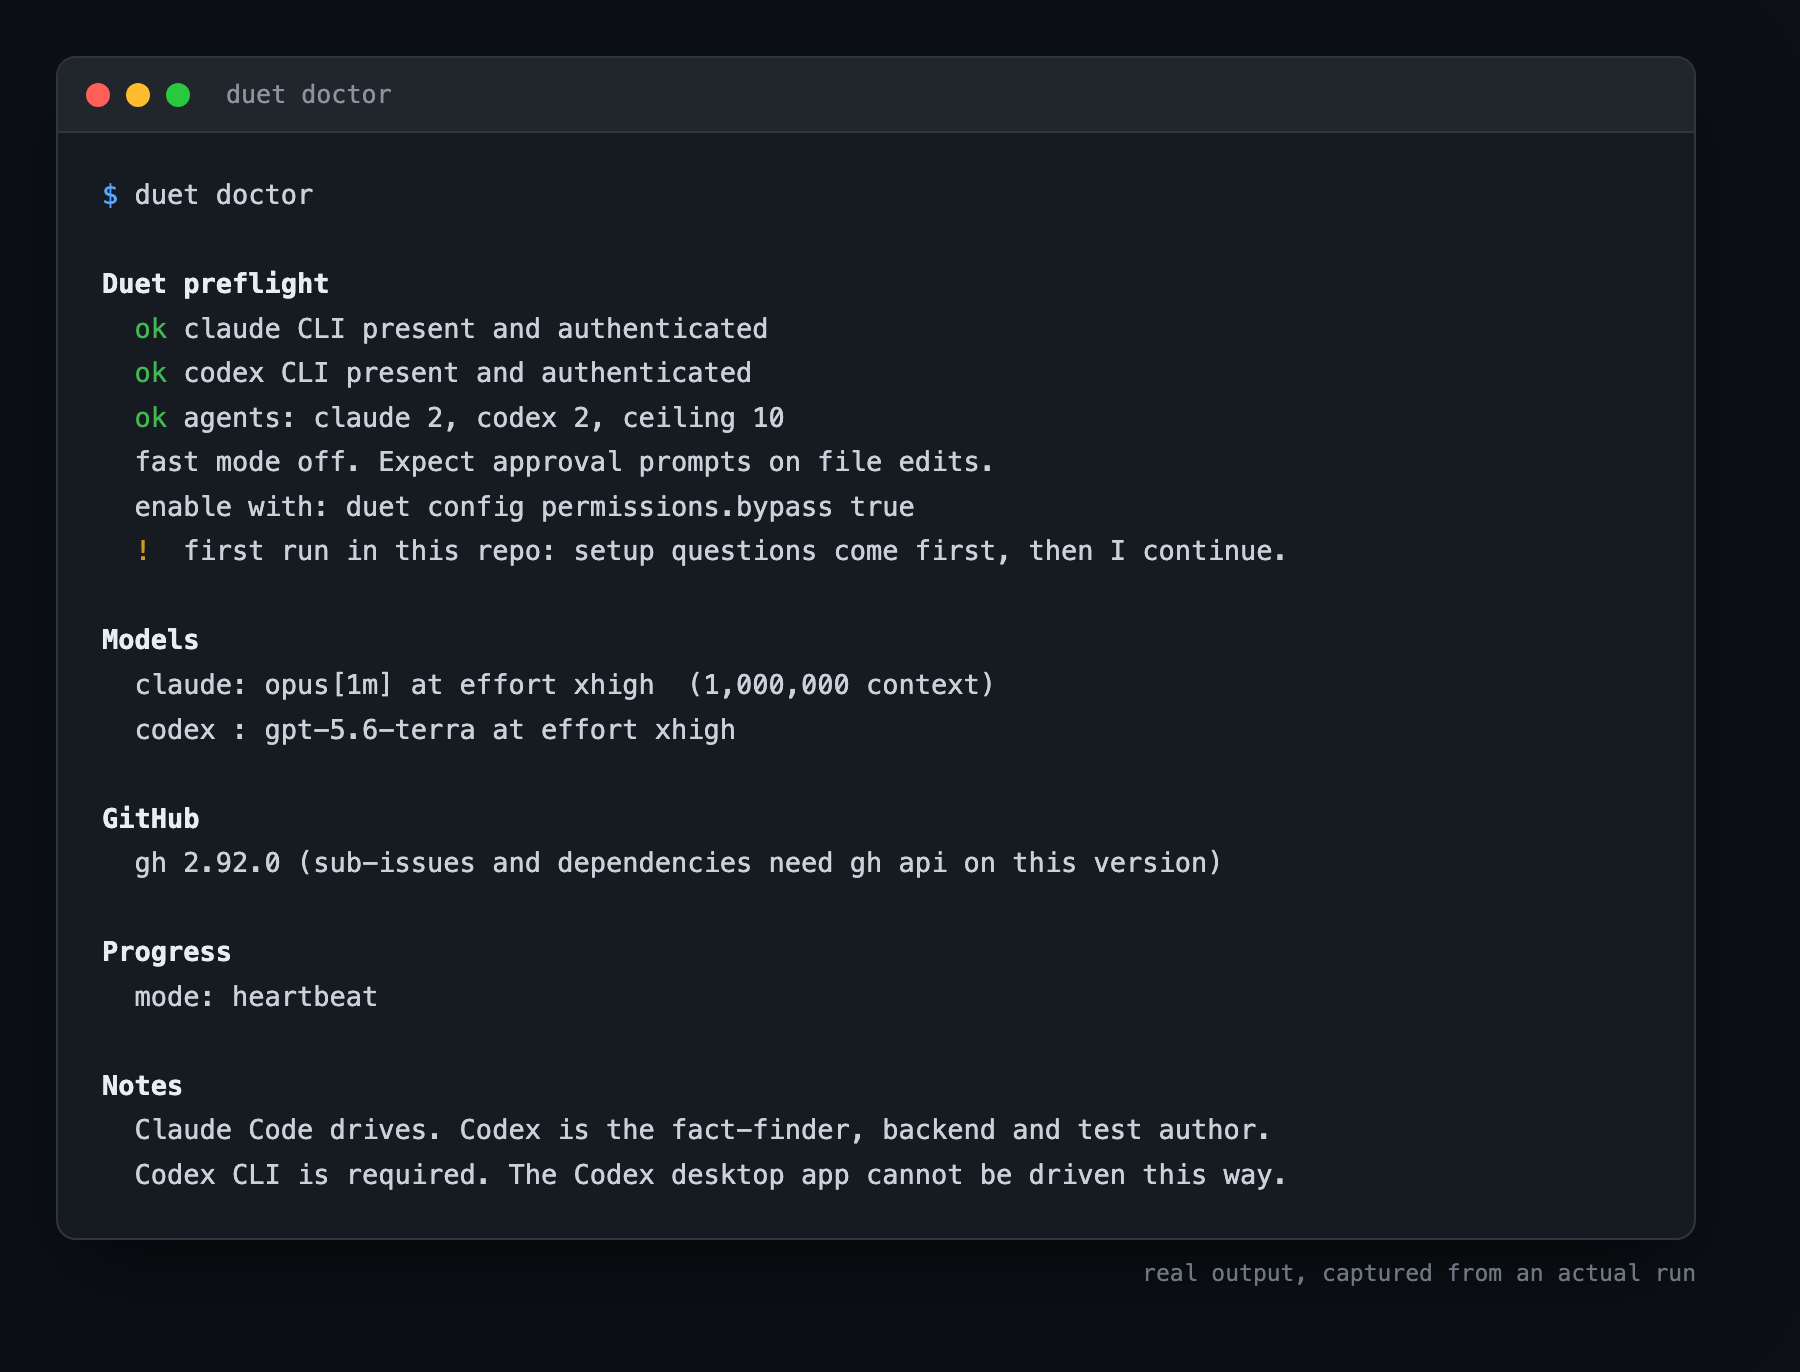
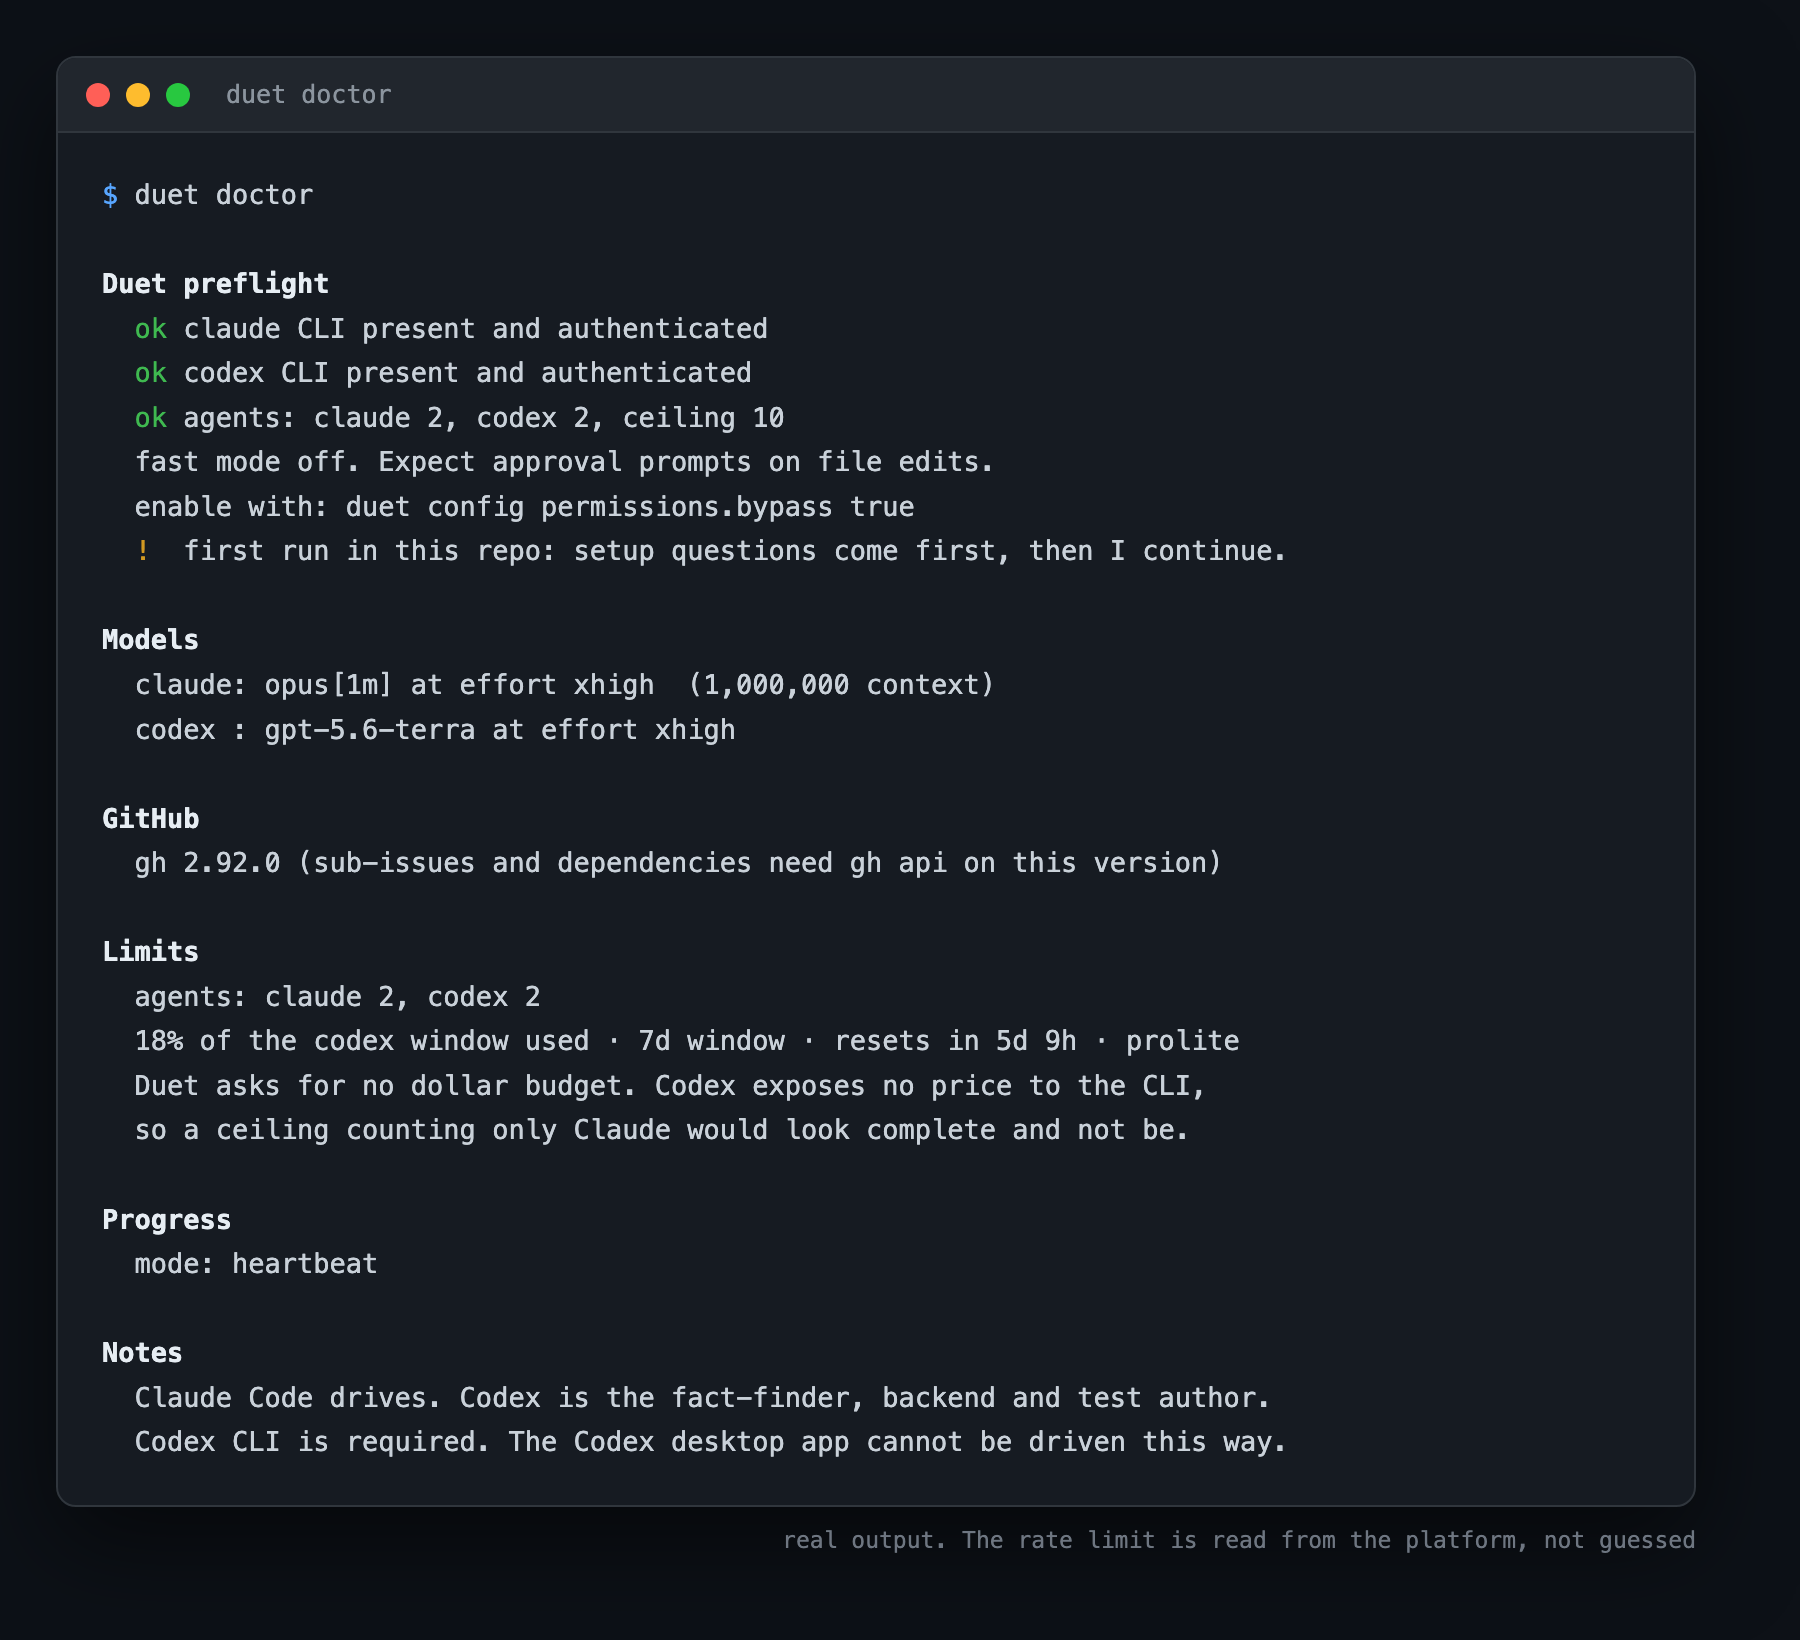
v0.4.1: stop asking for a budget Duet cannot measure
Setup asked "warn me at what spend, stop at what spend", meaning Duet's own
token spend. That question is gone.

It could not be answered honestly. Codex exposes no dollar figure to the CLI at
all, so a $25 ceiling only ever counted Claude's half and then reported the
total as though it were the whole thing. Half a meter presented as a full one is
exactly the failure this repo exists to refuse, and it was sitting in the setup
interview asking the human to configure it.

It also asked about the wrong money. Nobody budgets an agent by the dollar; they
budget the project. That question already existed in the app preset, where it is
about hosting and is answerable, and it now reads "what is the most you want to
spend per month to RUN this, once it is live" instead of a vague "how much can
this cost to run".

What replaces it is measured rather than guessed. duet doctor reports the real
Codex ceiling from account/rateLimits/read: percent of the window used, window
length, when it resets, and the plan. On a subscription that is the constraint
that actually binds, and it is now readable.

  the interview is ten questions and none are about Duet's own cost
  duet_ledger_report labels its figure "claude spend" and says plainly that no
    dollar figure exists for Codex, rather than adding half a total to nothing
  budget.warnUsd and budget.stopUsd still work when set by hand, for anyone on
    an API key where dollars are the real unit. They default to off
[…]

diff --git a/skills/duet-setup/SKILL.md b/skills/duet-setup/SKILL.md
@@ -64,7 +64,6 @@ keeps twelve keys down to ten questions.
 | How many agents at once, Claude and Codex? | `agents.*.max` | 2 and 2 |
 | Want to see progress while I work? | `progress.mode` | `heartbeat` |
 | Skip the "can I edit this file" prompts? | `permissions.bypass` | **true** |
-| Warn me at what spend, stop at what spend? | `budget.*` | 5 and 0 |
 | Coverage floor before anything counts as done? | `done.coverageMin` | 80 |
 
 Explain each in the answer text, never in a paragraph after it:
@@ -86,6 +85,13 @@ Explain each in the answer text, never in a paragraph after it:
 - **progress** `heartbeat` is one line a minute and costs nothing. `digest`
   adds a summary of what Codex found every few minutes, **and that one uses
   extra quota**. `window` opens a second terminal running Codex live.
+- **no money question here.** Duet does not ask what it may spend on itself,
+  because Codex exposes no dollar figure to the CLI and a ceiling that counts
+  only Claude's half would be a number that looks complete and is not. On a
+  subscription the real ceiling is the rate limit, and `duet goal status` reads
+  it properly. The one money question Duet does ask is the project's monthly
+  running cost, and it belongs in the app preset where it is about hosting.
+  `budget.warnUsd` and `budget.stopUsd` still work if set by hand.
 - **fast mode is recommended on**, and say why in both directions: without it,
   every file edit stops and asks, which makes a long run unusable. With it, the
   plan approval gate also stops gating, and Claude's auto-mode classifier may
@@ -122,7 +128,7 @@ duet setup voice=plain grill.depth=normal autonomy=product \
   safety.alwaysAsk=push-to-main,production-data,delete-outside-tree \
   safety.mode=ask-now git.mode=branch \
   agents.claude.max=2 agents.codex.max=2 progress.mode=heartbeat \
-  permissions.bypass=true budget.warnUsd=5 budget.stopUsd=0 done.coverageMin=80
+  permissions.bypass=true done.coverageMin=80
 ```
 
 Anything not passed takes its default. Values are validated, `.duet/` and

diff --git a/CHANGELOG.md b/CHANGELOG.md
@@ -1,5 +1,36 @@
 # Changelog
 
+## 0.4.1
+
+Duet stops asking for a budget it cannot measure.
+
+Setup used to ask "warn me at what spend, stop at what spend", meaning Duet's
+own token spend. That question is gone, for two reasons.
+
+**It could not be answered honestly.** Codex exposes no dollar figure to the CLI
+at all, so a $25 ceiling only ever counted Claude's half and then reported the
+total as though it were the whole thing. Half a meter presented as a full one is
+the failure this repo exists to refuse, and it was sitting in the setup
+interview.
+
+**It asked about the wrong money.** Nobody budgets an agent by the dollar; they
+budget the project. That question already exists in the app preset, where it is
+about hosting and is answerable, and it now reads "what is the most you want to
+spend per month to RUN this, once it is live" rather than a vague "how much can
+this cost".
+
+What replaces it is the number that actually binds on a subscription.
+`duet doctor` now reports the real Codex rate limit from
+`account/rateLimits/read`: percent of the window used, window length, when it
+resets, and the plan. Measured, not guessed.
+
+- The interview is ten questions and none of them are about Duet's own cost.
+- `duet_ledger_report` labels its figure **claude spend**, and says plainly that
+  no dollar figure exists for Codex.
+- `budget.warnUsd` and `budget.stopUsd` still work when set by hand, for anyone
+  on an API key where dollars are the real unit. They default to off.
+- `duet setup --max` no longer sets a spend warning it cannot honour.
+
 ## 0.4.0
 
 Closing the gap between what Duet said and what Duet did. Auditing 0.3.1 before

diff --git a/README.md b/README.md
@@ -331,11 +331,15 @@ does.
   work is what keeps Claude honest, and it is not free. Briefs are cached within
   a run, and pure-logic phases skip them, but Duet is slower than one agent
   guessing confidently.
-- **Spend visibility is partial, and less partial than it was.** Duet measures
-  its own cost exactly, and `account/rateLimits/read` on the Codex app-server
-  gives real remaining-quota figures: used percent, window length, reset time.
-  Claude exposes no equivalent, so half the picture is still guesswork and the
-  agent caps remain a blunt instrument for that half.
+- **Duet does not ask for a dollar budget, on purpose.** Codex exposes no price
+  to the CLI, so any ceiling would count Claude's half and present it as the
+  whole. What it reports instead is measured: `account/rateLimits/read` gives
+  the real Codex quota, being percent of the window used, window length and
+  reset time, and the ledger labels its dollar figure "claude spend" rather than
+  implying it covers both. Claude exposes no quota equivalent, so the agent caps
+  remain a blunt instrument for that half. The one money question Duet asks is
+  the project's monthly running cost, in the app preset, where it is about
+  hosting and is answerable.
 - **Onboarding is asymmetric.** Claude Code gets `/duet:*`. Codex does not
   support custom slash commands.
 - **The heartbeat parser is defensive, not verified.** Codex's `--json` stream
